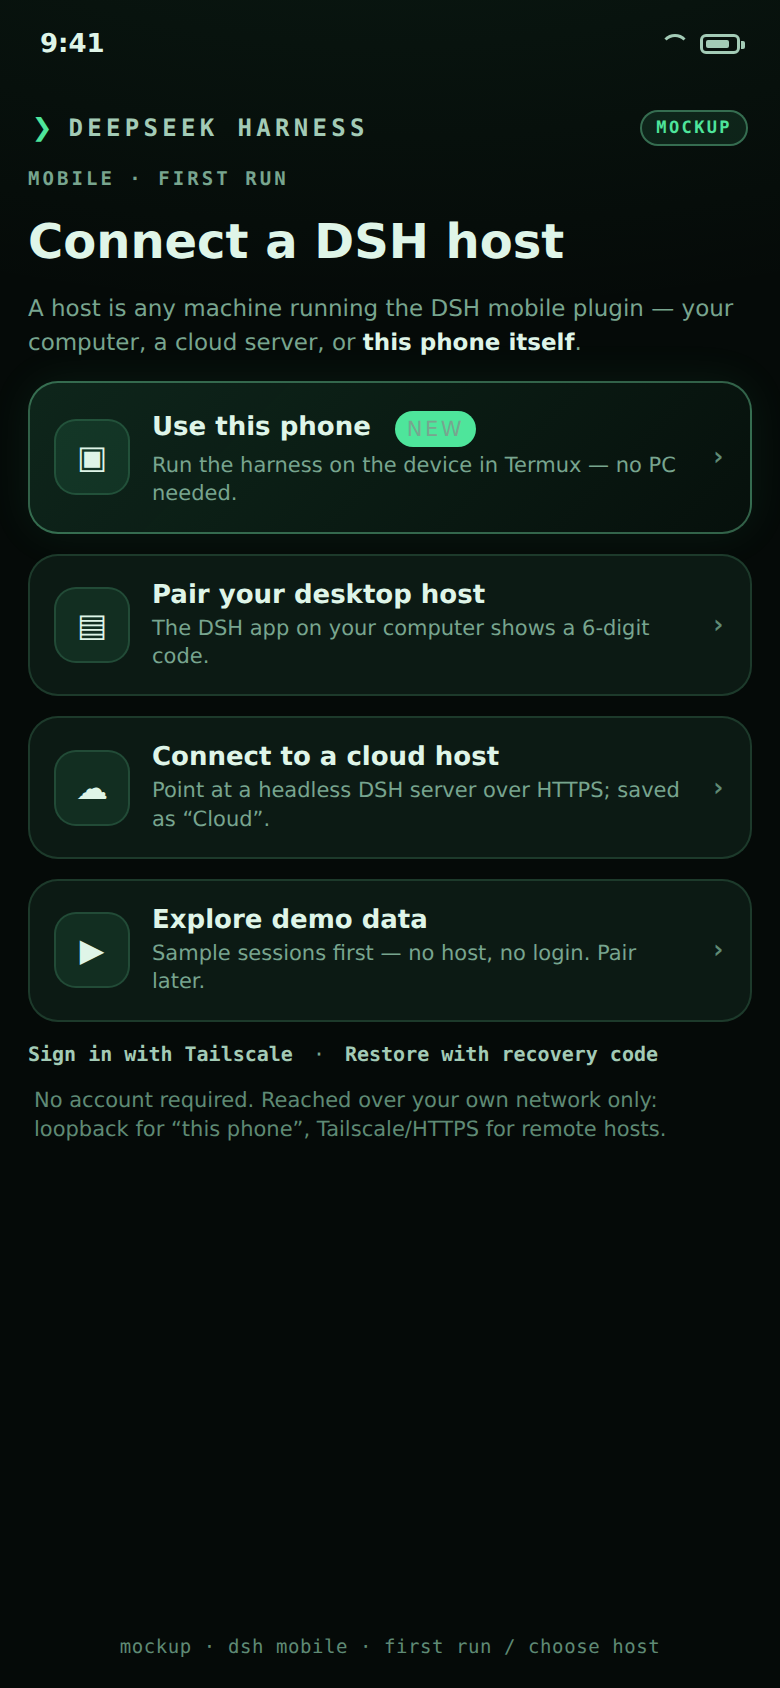
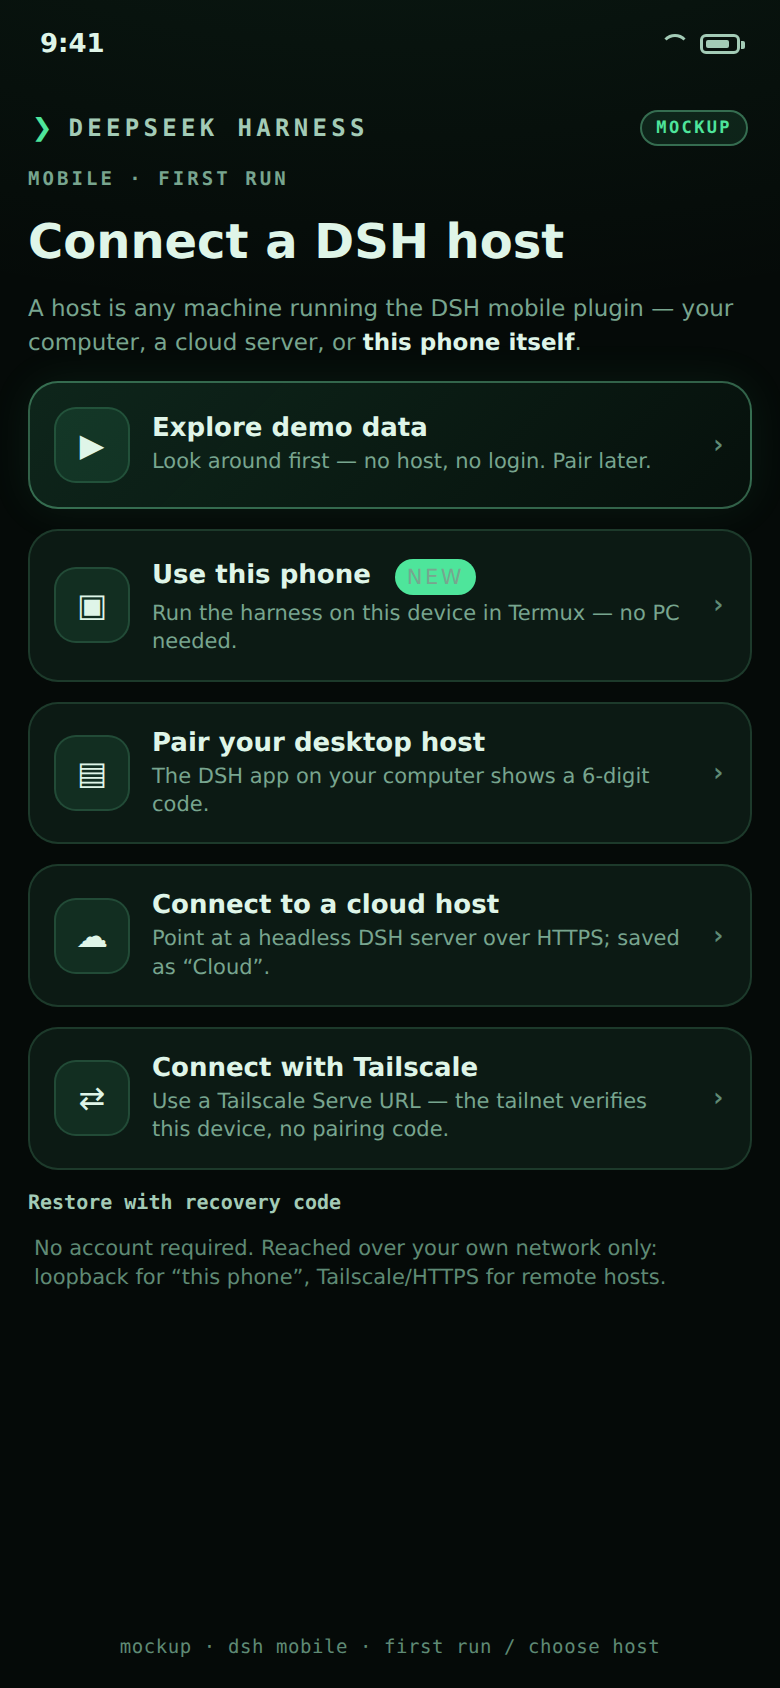
Startup mockup: demo-first order + Tailscale connect card
- Demo card moved to the top (highlighted as the fastest first-run path).
- New 'Connect with Tailscale' card below it (Tailscale Serve URL, no pairing
  code), replacing the small footer link; footer now only offers recovery code.

Changed region(s): [[0.0308, 0.2464, 0.9538, 0.6777], [0.0308, 0.7085, 0.8308, 0.7701]]

diff --git a/docs/design/startup-mockups/welcome.html b/docs/design/startup-mockups/welcome.html
@@ -29,8 +29,14 @@
     <div class="lead">A host is any machine running the DSH mobile plugin — your computer, a cloud server, or <b style="color:var(--text)">this phone itself</b>.</div>
 
     <div class="hostcard hot">
+      <div class="ic2">▶</div>
+      <div class="txt"><b>Explore demo data</b><span>Look around first — no host, no login. Pair later.</span></div>
+      <div class="chev">›</div>
+    </div>
+
+    <div class="hostcard">
       <div class="ic2">▣</div>
-      <div class="txt"><div class="titleline"><b>Use this phone</b><span class="tagnew">NEW</span></div><span>Run the harness on the device in Termux — no PC needed.</span></div>
+      <div class="txt"><div class="titleline"><b>Use this phone</b><span class="tagnew">NEW</span></div><span>Run the harness on this device in Termux — no PC needed.</span></div>
       <div class="chev">›</div>
     </div>
 
@@ -47,13 +53,13 @@
     </div>
 
     <div class="hostcard">
-      <div class="ic2">▶</div>
-      <div class="txt"><b>Explore demo data</b><span>Sample sessions first — no host, no login. Pair later.</span></div>
+      <div class="ic2">⇄</div>
+      <div class="txt"><b>Connect with Tailscale</b><span>Use a Tailscale Serve URL — the tailnet verifies this device, no pairing code.</span></div>
       <div class="chev">›</div>
     </div>
 
     <div class="smallrow">
-      <span><b>Sign in with Tailscale</b></span><span>·</span><span><b>Restore with recovery code</b></span>
+      <span><b>Restore with recovery code</b></span>
     </div>
     <div class="note">No account required. Reached over your own network only: loopback for “this phone”, Tailscale/HTTPS for remote hosts.</div>
     <div class="footer">mockup · dsh mobile · first run / choose host</div>
